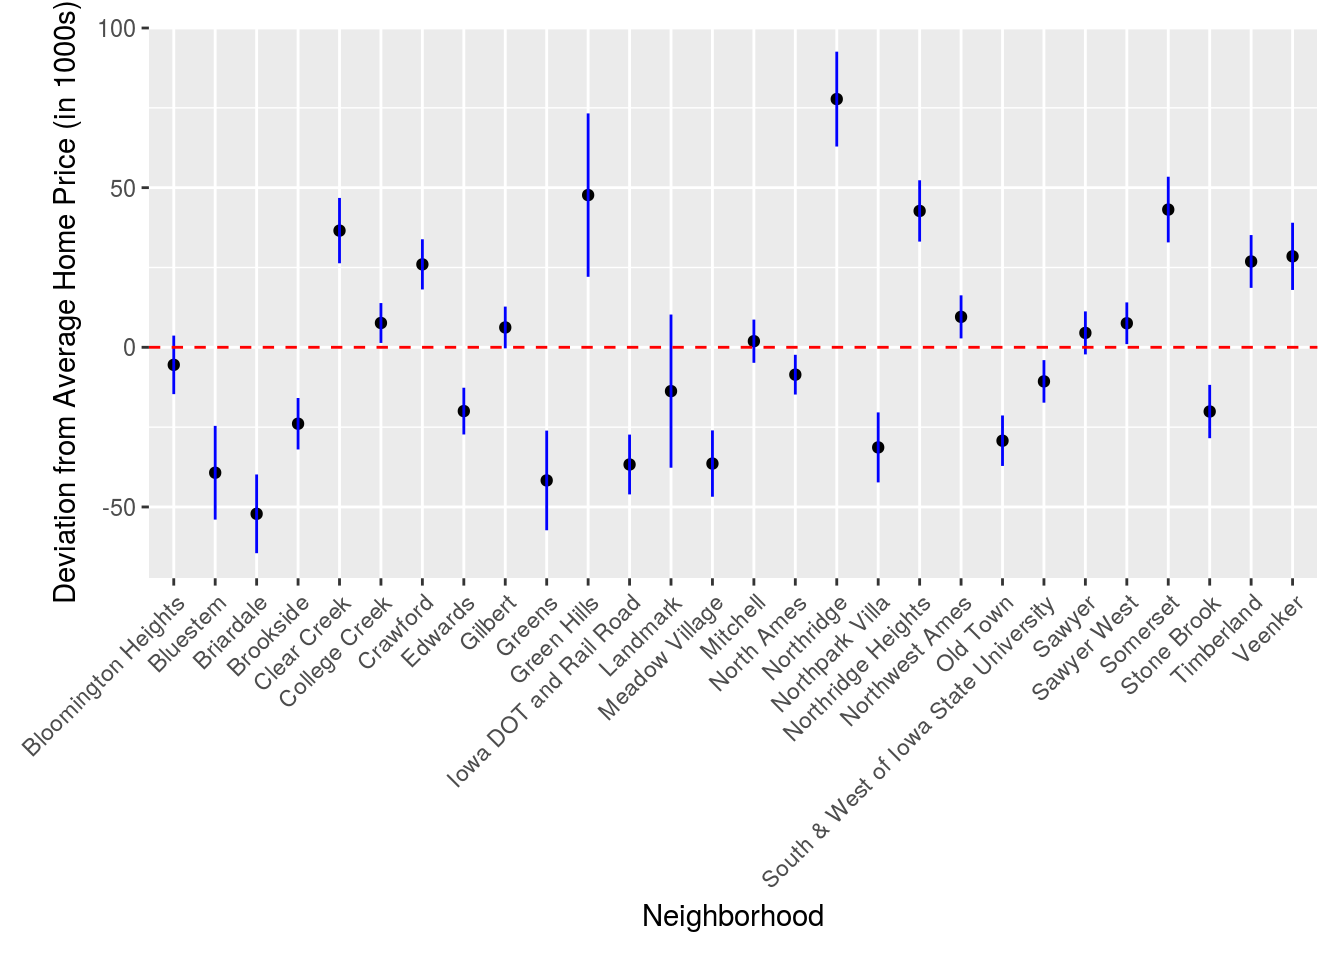
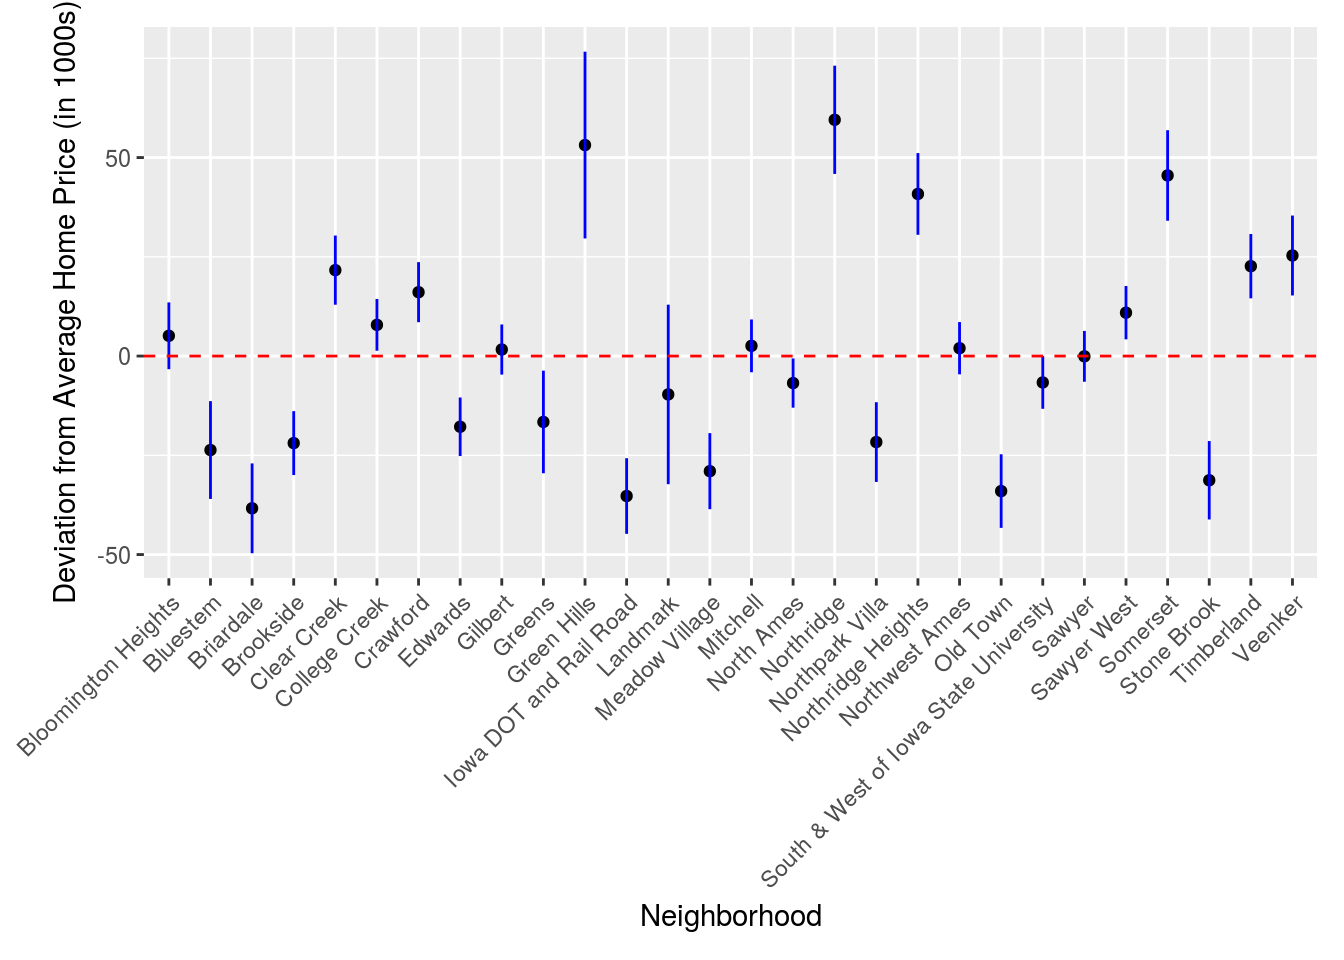
Updated Hierarchical

diff --git a/docs/housing.html b/docs/housing.html
@@ -213,6 +213,7 @@ $(document).ready(function () {
 <p>First we’ll load the required libraries for this project. We’ll be using the R implementation of STAN for our modelling.</p>
 <pre class="r"><code>library(caret)
 library(rstan)
+library(bridgesampling)
 library(dplyr)
 library(ggplot2)
 library(tidyr)</code></pre>
@@ -264,9 +265,11 @@ varImp(mod)</code></pre>
 ## Foundation       33.84
 ## Heating.QC       28.02
 ## Wood.Deck.SF     16.27</code></pre>
-<p>This suggests <em>Overall.Qual</em> is the most important so we’ll use it in our model. Note this is a discrete variable that takes integers values from 1 to 10 and describes the overall quality of the house with 10 being the highest quality.</p>
+<p>This suggests <em>Overall.Qual</em> is the most important so we’ll use it in our model. Note this is a discrete variable that takes integers values from 1 to 10 and describes the overall quality of the house with 10 being the highest quality. Also we’ll use <em>Gr.Liv.Area</em>. This is the floor area of the house on the ground level. To use it in our model, we will convert it into a discrete variable by changing each sample’s value to its corresponding quartile.</p>
 <p>Now we’ll reload our data and select the columns we’re interested in. Also we’ll transform the neighborhood names into integers.</p>
-<pre class="r"><code>Houses &lt;- read.csv(&quot;AmesHousing.csv&quot;) %&gt;% mutate(Neighborhood = as.numeric(Neighborhood), SalePrice = SalePrice / 1000) %&gt;% select(SalePrice, Neighborhood, Overall.Qual) %&gt;% na.omit()</code></pre>
+<pre class="r"><code>Houses &lt;- read.csv(&quot;AmesHousing.csv&quot;) %&gt;%
+  mutate(Neighborhood = as.numeric(Neighborhood), SalePrice = SalePrice / 1000, Gr.Liv.Area = ntile(Gr.Liv.Area, 4)) %&gt;%
+  select(SalePrice, Neighborhood, Overall.Qual, Gr.Liv.Area) %&gt;% na.omit()</code></pre>
 <p>Here is the STAN code for our model.</p>
 <pre class="r"><code>crossed_stan_code &lt;- 
 
@@ -276,30 +279,35 @@ data {
   int&lt;lower=0&gt; N; //number of observations
   int&lt;lower=1,upper=10&gt; qual_id[N]; // vector of quality indices
   int&lt;lower=1,upper=28&gt; nbhd_id[N]; // vector of neighborhood indices
+  int&lt;lower=1,upper=28&gt; area_id[N]; // vector of area indices
   vector[N] y;
 }
 parameters {
   vector[10] gamma; // vector of quality deviation from the average 
   vector[28] delta; // vector of neighborhood deviation from the average
+  vector[4]  epsilon; // vector of area quantile deviation from the average
   real&lt;lower=0&gt; mu; // average house price value
   real&lt;lower=0&gt; sigma_gamma; // standard deviation of the gamma coefficients
   real&lt;lower=0&gt; sigma_delta; // standard deviation of the delta coefficients
+  real&lt;lower=0&gt; sigma_epsilon; // standard deviation of the epsilon coefficients
   real&lt;lower=0&gt; sigma_y; // standard deviation of the observations
 }
 transformed parameters {
   vector[N] y_hat;
 
   for (i in 1:N)
-    y_hat[i] = mu + gamma[qual_id[i]] + delta[nbhd_id[i]];
+    y_hat[i] = mu + gamma[qual_id[i]] + delta[nbhd_id[i]] + epsilon[area_id[i]];
 }
 model {
-  //priors on the scale coefficient
+  // priors on the scale coefficient
   sigma_gamma ~ cauchy(0,2.5);
   sigma_delta ~ cauchy(0,2.5);
+  sigma_epsilon ~ cauchy(0,2.5);
   sigma_y ~ gamma(2,0.1);
   // gets quality and neighborhood level deviation
   gamma ~ normal(0, sigma_gamma);
   delta ~ normal(0, sigma_delta);
+  epsilon ~ normal(0, sigma_epsilon);
   // the likelihood
   y ~ normal(y_hat, sigma_y);
 }
@@ -308,7 +316,7 @@ model {
 <p>Now we’ll train our model. Note we are using Markov chain Monte Carlo (MCMC) to increase our sample size. The <em>chains</em> parameter specifies the number of Markov chains and the <em>iter</em> parameter specifies the number of iterations for each chain.</p>
 <pre class="r"><code>set.seed(1234)
 
-dat&lt;-list(N = nrow(Houses), qual_id = Houses$Overall.Qual, nbhd_id = Houses$Neighborhood, y = Houses$SalePrice )
+dat&lt;-list(N = nrow(Houses), qual_id = Houses$Overall.Qual, nbhd_id = Houses$Neighborhood, area_id = Houses$Gr.Liv.Area, y = Houses$SalePrice)
 mod &lt;-stan(model_code = crossed_stan_code , data=dat, iter=1000, chains=2, control = list(max_treedepth = 12))</code></pre>
 <pre><code>## In file included from /home/oliver/R/x86_64-pc-linux-gnu-library/3.4/BH/include/boost/config.hpp:39:0,
 ##                  from /home/oliver/R/x86_64-pc-linux-gnu-library/3.4/BH/include/boost/math/tools/config.hpp:13,
@@ -318,16 +326,16 @@ mod &lt;-stan(model_code = crossed_stan_code , data=dat, iter=1000, chains=2, co
 ##                  from /home/oliver/R/x86_64-pc-linux-gnu-library/3.4/StanHeaders/include/stan/math/rev/mat.hpp:4,
 ##                  from /home/oliver/R/x86_64-pc-linux-gnu-library/3.4/StanHeaders/include/stan/math.hpp:4,
 ##                  from /home/oliver/R/x86_64-pc-linux-gnu-library/3.4/StanHeaders/include/src/stan/model/model_header.hpp:4,
-##                  from file2b2e7aebc91d.cpp:8:
+##                  from file3b235bbb036.cpp:8:
 ## /home/oliver/R/x86_64-pc-linux-gnu-library/3.4/BH/include/boost/config/compiler/gcc.hpp:186:0: warning: &quot;BOOST_NO_CXX11_RVALUE_REFERENCES&quot; redefined
 ##  #  define BOOST_NO_CXX11_RVALUE_REFERENCES
 ##  ^
 ## &lt;command-line&gt;:0:0: note: this is the location of the previous definition
 ## 
-## SAMPLING FOR MODEL &#39;002e89260e4f715def475d3670667c33&#39; NOW (CHAIN 1).
+## SAMPLING FOR MODEL &#39;a52f346d5fa1d3aa5972e8a11bf1ed6f&#39; NOW (CHAIN 1).
 ## 
-## Gradient evaluation took 0.000199 seconds
-## 1000 transitions using 10 leapfrog steps per transition would take 1.99 seconds.
+## Gradient evaluation took 0.000302 seconds
+## 1000 transitions using 10 leapfrog steps per transition would take 3.02 seconds.
 ## Adjust your expectations accordingly!
 ## 
 ## 
@@ -344,15 +352,15 @@ mod &lt;-stan(model_code = crossed_stan_code , data=dat, iter=1000, chains=2, co
 ## Iteration: 900 / 1000 [ 90%]  (Sampling)
 ## Iteration: 1000 / 1000 [100%]  (Sampling)
 ## 
-##  Elapsed Time: 54.1721 seconds (Warm-up)
-##                13.4584 seconds (Sampling)
-##                67.6305 seconds (Total)
+##  Elapsed Time: 68.6429 seconds (Warm-up)
+##                27.8893 seconds (Sampling)
+##                96.5322 seconds (Total)
 ## 
 ## 
-## SAMPLING FOR MODEL &#39;002e89260e4f715def475d3670667c33&#39; NOW (CHAIN 2).
+## SAMPLING FOR MODEL &#39;a52f346d5fa1d3aa5972e8a11bf1ed6f&#39; NOW (CHAIN 2).
 ## 
-## Gradient evaluation took 0.00018 seconds
-## 1000 transitions using 10 leapfrog steps per transition would take 1.8 seconds.
+## Gradient evaluation took 0.000236 seconds
+## 1000 transitions using 10 leapfrog steps per transition would take 2.36 seconds.
 ## Adjust your expectations accordingly!
 ## 
 ## 
@@ -369,14 +377,14 @@ mod &lt;-stan(model_code = crossed_stan_code , data=dat, iter=1000, chains=2, co
 ## Iteration: 900 / 1000 [ 90%]  (Sampling)
 ## Iteration: 1000 / 1000 [100%]  (Sampling)
 ## 
-##  Elapsed Time: 49.9281 seconds (Warm-up)
-##                19.0615 seconds (Sampling)
-##                68.9896 seconds (Total)</code></pre>
+##  Elapsed Time: 79.1185 seconds (Warm-up)
+##                39.8585 seconds (Sampling)
+##                118.977 seconds (Total)</code></pre>
 <p>We received no errors! Now we’ll examine the trace of <em>sigma_y</em> (the standard deviation of all the observations) in our MCMC model.</p>
 <pre class="r"><code>stan_trace(mod, pars = c(&quot;sigma_y&quot;))</code></pre>
 <p><img src="housing_files/figure-html/unnamed-chunk-8-1.png" width="672" /></p>
 <p>Now we’ll extract out out samples produced and put them in a dataframe.</p>
-<pre class="r"><code>crossed_samples &lt;- as.data.frame( mod@sim$samples )  %&gt;% select(gamma.1. : delta.28.)
+<pre class="r"><code>crossed_samples &lt;- as.data.frame( mod@sim$samples )  %&gt;% select(gamma.1. : epsilon.4.)
 
 Qual_stats &lt;- crossed_samples %&gt;% select(gamma.1. : gamma.10.) %&gt;%
   gather(key = Qual, value = SalePrice) %&gt;% 
@@ -389,7 +397,13 @@ Neighborhood_stats &lt;- crossed_samples %&gt;% select(delta.1. : delta.28.) %&g
   gather(key = Neighborhood, value = SalePrice) %&gt;%
   group_by(Neighborhood) %&gt;% summarise(mean = mean(SalePrice), sd = sd(SalePrice)) %&gt;%
   mutate(Neighborhood = as.factor(as.numeric( gsub(&quot;[^0-9]&quot;, &quot;&quot;, Neighborhood)))) %&gt;%
-  arrange(Neighborhood)</code></pre>
+  arrange(Neighborhood)
+
+Area_stats &lt;- crossed_samples %&gt;% select(epsilon.1. : epsilon.4.) %&gt;%
+  gather(key = Area_quartile, value = SalePrice) %&gt;%
+  group_by(Area_quartile) %&gt;% summarise(mean = mean(SalePrice), sd = sd(SalePrice)) %&gt;%
+  mutate(Area_quartile = as.factor(as.numeric( gsub(&quot;[^0-9]&quot;, &quot;&quot;, Area_quartile)))) %&gt;%
+  arrange(Area_quartile)</code></pre>
 <p>Now we’ll look at the deviation from the mean home price for each quality class. Interestingly, this suggests we need a rank of 8 to be significantly above the average home price.</p>
 <pre class="r"><code>Qual_stats %&gt;%  ggplot(aes(x = Qual, y = mean)) +
   geom_point() +
@@ -409,6 +423,107 @@ Neighborhood_stats %&gt;%  ggplot(aes(x = Neighborhood, y = mean)) +
   theme(axis.text.x = element_text(angle = 45, hjust = 1, vjust = 1), plot.margin = margin(10, 10, 10, 20)) +
   ylab(&quot;Deviation from Average Home Price (in 1000s)&quot;)</code></pre>
 <p><img src="housing_files/figure-html/unnamed-chunk-11-1.png" width="672" /></p>
+<p>Finally for the quartiles of total ground floor area.</p>
+<pre class="r"><code>Area_stats %&gt;%  ggplot(aes(x = Area_quartile, y = mean)) +
+  geom_point() +
+  geom_segment(aes(x = Area_quartile, y = mean+sd, xend = Area_quartile, yend = mean-sd), color = &quot;blue&quot;) +
+  geom_hline(aes(yintercept=0), colour=&quot;red&quot;, linetype=&quot;dashed&quot;) +
+  xlab(&quot;Quartile of Ground Floor Area&quot;) +
+  ylab(&quot;Deviation from Average Home Price (in 1000s)&quot;)</code></pre>
+<p><img src="housing_files/figure-html/unnamed-chunk-12-1.png" width="672" /></p>
+<p>Now we’ll try a non-hierarchical normal model and compare it to to the hierarchical model.</p>
+<pre class="r"><code>non_hier_stan_code &lt;- 
+
+&quot;
+
+data {
+  int&lt;lower=0&gt; N; //number of observations
+  int&lt;lower=1,upper=10&gt; qual_id[N]; // vector of quality indices
+  int&lt;lower=1,upper=28&gt; nbhd_id[N]; // vector of neighborhood indices
+  int&lt;lower=1,upper=28&gt; area_id[N]; // vector of area indices
+  vector[N] y;
+}
+parameters {
+  real y_hat;
+  real&lt;lower=0&gt; sigma_y; // standard deviation of the observations
+}
+model {
+  y ~ normal(y_hat, sigma_y);
+}
+
+&quot;</code></pre>
+<pre class="r"><code>set.seed(1234)
+
+non_hier_mod &lt;-stan(model_code = non_hier_stan_code , data=dat, iter=1000, chains=2, control = list(max_treedepth = 12))</code></pre>
+<pre><code>## In file included from /home/oliver/R/x86_64-pc-linux-gnu-library/3.4/BH/include/boost/config.hpp:39:0,
+##                  from /home/oliver/R/x86_64-pc-linux-gnu-library/3.4/BH/include/boost/math/tools/config.hpp:13,
+##                  from /home/oliver/R/x86_64-pc-linux-gnu-library/3.4/StanHeaders/include/stan/math/rev/core/var.hpp:7,
+##                  from /home/oliver/R/x86_64-pc-linux-gnu-library/3.4/StanHeaders/include/stan/math/rev/core/gevv_vvv_vari.hpp:5,
+##                  from /home/oliver/R/x86_64-pc-linux-gnu-library/3.4/StanHeaders/include/stan/math/rev/core.hpp:12,
+##                  from /home/oliver/R/x86_64-pc-linux-gnu-library/3.4/StanHeaders/include/stan/math/rev/mat.hpp:4,
+##                  from /home/oliver/R/x86_64-pc-linux-gnu-library/3.4/StanHeaders/include/stan/math.hpp:4,
+##                  from /home/oliver/R/x86_64-pc-linux-gnu-library/3.4/StanHeaders/include/src/stan/model/model_header.hpp:4,
+##                  from file3b2379d2634c.cpp:8:
+## /home/oliver/R/x86_64-pc-linux-gnu-library/3.4/BH/include/boost/config/compiler/gcc.hpp:186:0: warning: &quot;BOOST_NO_CXX11_RVALUE_REFERENCES&quot; redefined
+##  #  define BOOST_NO_CXX11_RVALUE_REFERENCES
+##  ^
+## &lt;command-line&gt;:0:0: note: this is the location of the previous definition
+## 
+## SAMPLING FOR MODEL &#39;65fd36463a945785e293cc5a5f37232a&#39; NOW (CHAIN 1).
+## 
+## Gradient evaluation took 1.5e-05 seconds
+## 1000 transitions using 10 leapfrog steps per transition would take 0.15 seconds.
+## Adjust your expectations accordingly!
+## 
+## 
+## Iteration:   1 / 1000 [  0%]  (Warmup)
+## Iteration: 100 / 1000 [ 10%]  (Warmup)
+## Iteration: 200 / 1000 [ 20%]  (Warmup)
+## Iteration: 300 / 1000 [ 30%]  (Warmup)
+## Iteration: 400 / 1000 [ 40%]  (Warmup)
+## Iteration: 500 / 1000 [ 50%]  (Warmup)
+## Iteration: 501 / 1000 [ 50%]  (Sampling)
+## Iteration: 600 / 1000 [ 60%]  (Sampling)
+## Iteration: 700 / 1000 [ 70%]  (Sampling)
+## Iteration: 800 / 1000 [ 80%]  (Sampling)
+## Iteration: 900 / 1000 [ 90%]  (Sampling)
+## Iteration: 1000 / 1000 [100%]  (Sampling)
+## 
+##  Elapsed Time: 0.043819 seconds (Warm-up)
+##                0.023113 seconds (Sampling)
+##                0.066932 seconds (Total)
+## 
+## 
+## SAMPLING FOR MODEL &#39;65fd36463a945785e293cc5a5f37232a&#39; NOW (CHAIN 2).
+## 
+## Gradient evaluation took 1e-05 seconds
+## 1000 transitions using 10 leapfrog steps per transition would take 0.1 seconds.
+## Adjust your expectations accordingly!
+## 
+## 
+## Iteration:   1 / 1000 [  0%]  (Warmup)
+## Iteration: 100 / 1000 [ 10%]  (Warmup)
+## Iteration: 200 / 1000 [ 20%]  (Warmup)
+## Iteration: 300 / 1000 [ 30%]  (Warmup)
+## Iteration: 400 / 1000 [ 40%]  (Warmup)
+## Iteration: 500 / 1000 [ 50%]  (Warmup)
+## Iteration: 501 / 1000 [ 50%]  (Sampling)
+## Iteration: 600 / 1000 [ 60%]  (Sampling)
+## Iteration: 700 / 1000 [ 70%]  (Sampling)
+## Iteration: 800 / 1000 [ 80%]  (Sampling)
+## Iteration: 900 / 1000 [ 90%]  (Sampling)
+## Iteration: 1000 / 1000 [100%]  (Sampling)
+## 
+##  Elapsed Time: 0.04297 seconds (Warm-up)
+##                0.024211 seconds (Sampling)
+##                0.067181 seconds (Total)</code></pre>
+<p>To compare the the models, we can compute the Bayes factor by using the <em>bf</em> function in the <em>bridgesampling</em> package. Here we compute the Bayes factor, which quantifies how much more likely the data is under the hierarchical model versus the non-hierarchical model.</p>
+<pre class="r"><code>set.seed(1234)
+
+mod.bridge &lt;- bridge_sampler(mod, silent = TRUE)
+non_hier_mod.bridge &lt;- bridge_sampler(non_hier_mod, silent = TRUE)
+bf(mod.bridge, non_hier_mod.bridge)</code></pre>
+<pre><code>## The estimated Bayes factor in favor of x1 over x2 is equal to: Inf</code></pre>
 <div id="references" class="section level2">
 <h2>References</h2>
 <ol style="list-style-type: decimal">
